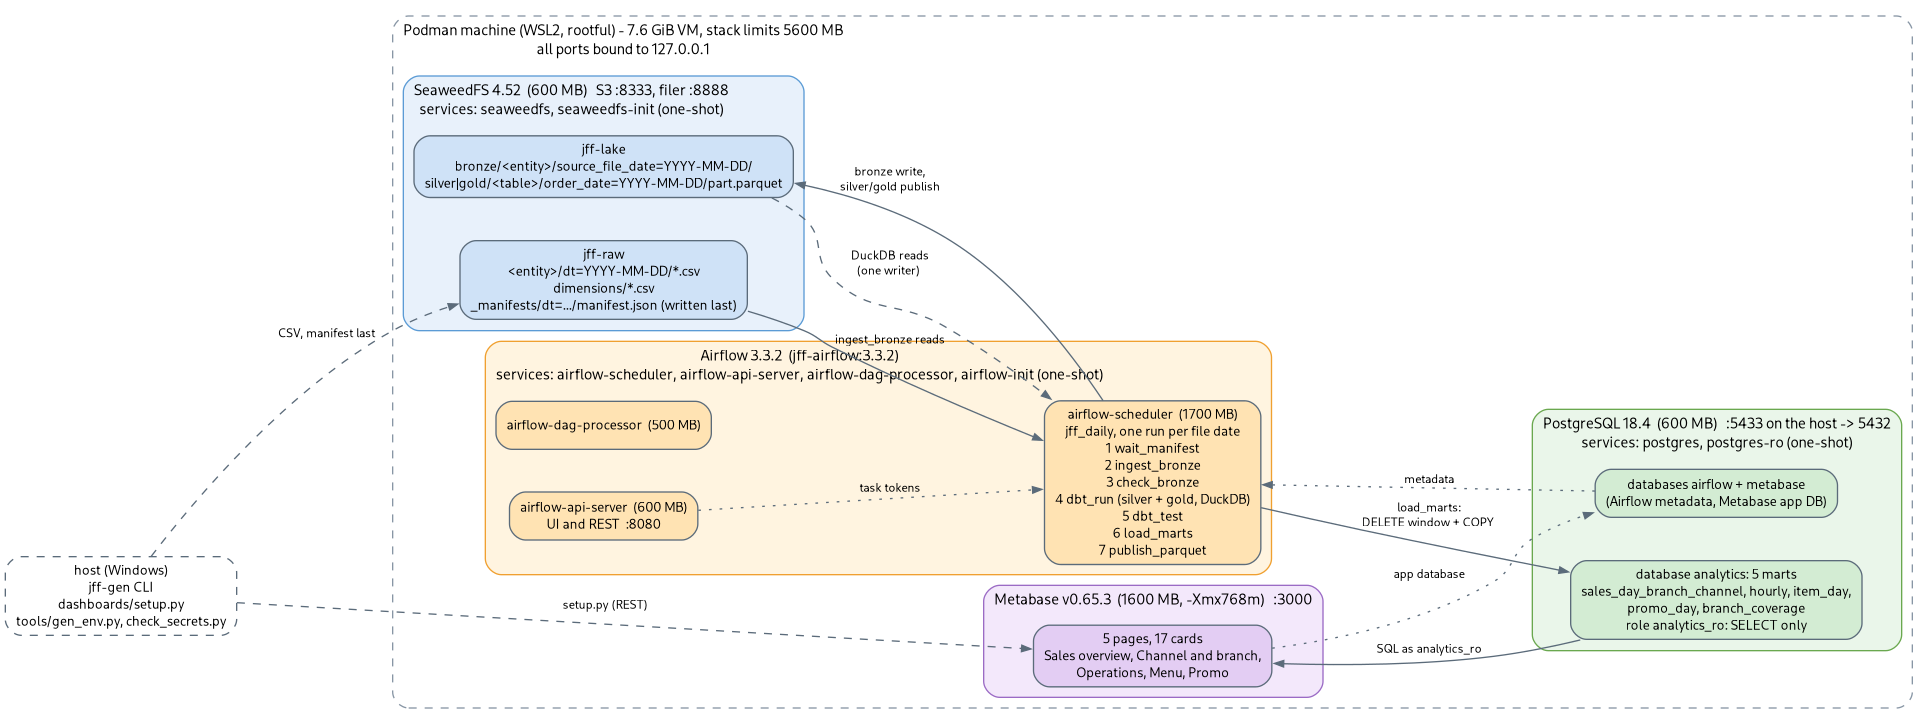
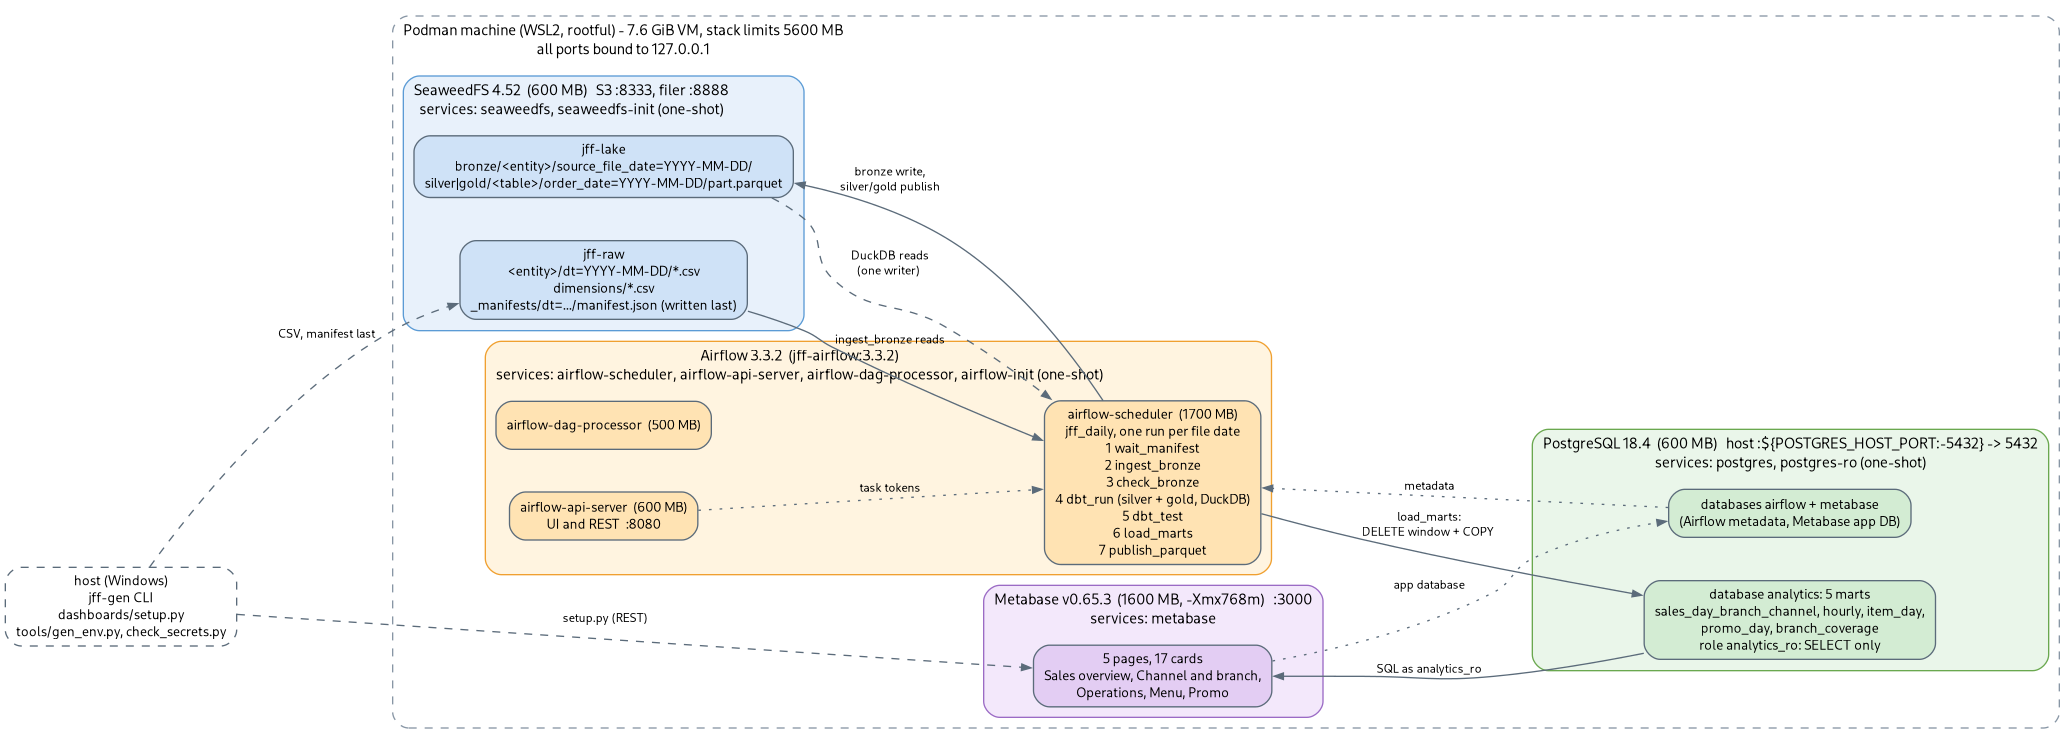
fix(docs): use the measured orphan count and tighten the citations
The 6 refund changes came from the task text's 0.02-scale estimate; at scale 0.1 the report counts 163 rows against 166 orphan rows. The clean-room sentence no longer claims a single pass, the generator test count cites T01, the 27,410 mart rows cite T07 section 8, two unhedged scale numbers are labelled, and the diagram takes the host port from .env with Metabase named like the other services.

diff --git a/docs/conclusion.md b/docs/conclusion.md
@@ -25,7 +25,7 @@ It runs as six long-running containers plus three one-shot helpers on one Podman
 | The injected defects are detected | Seven row-level defects match the manifests one to one; nine missing branch-days equal the nine `dropped_branch_ids` | T03 section 3, T06 section 2 |
 | The stack fits its budget while loaded | postgres 165 MB, seaweedfs 326.8 MB, metabase 1.357 GB, api-server 331.8 MB, scheduler 1.077 GB, dag-processor 205.8 MB | T06 section 6 |
 | One day costs about a minute | 42.3 s for the seven tasks, peak `anon` 661.4 MB | T06 section 5 |
-| Tests and checks are green | dbt 49 tests, `pytest` 23, generator 41, ruff/mypy clean, CI green on `task/T07-hardening` and `main` | T06 section 7, T07 section 5 |
+| Tests and checks are green | dbt 49 tests, `pytest` 23, generator 41, ruff/mypy clean, CI green on `task/T07-hardening` and `main` | T06 section 7, T01, T07 section 5 |
 | Our own dependencies have no known advisories | pip-audit: 0 findings in the pipeline, generator and dbt sets | T07 section 3 |
 | The base image is the remaining risk | 108 advisories in the Airflow image (4 CRITICAL, 48 HIGH) and Trivy 342 HIGH / 23 CRITICAL for it; accepted for a local demo with a review after 29 Nov 2026 | T07 section 4, `docs/security.md` |
 
@@ -42,8 +42,9 @@ Window counts (days, rows, objects) are in `docs/pipeline-design.md` section 14 
   useful and arithmetically consistent, nothing more (`docs/data-dictionary.md`).
 - **The newest day is provisional.** Its late orders and refunds arrive in the next file and rewrite its
   partition on the next run (T04).
-- **Orphan refunds before the window.** Six refund changes refer to orders older than the loaded window
-  and do not attach to an order (T04b).
+- **Orphan refunds before the window.** 163 refund rows reference orders dated 2026-09-23 .. 2026-09-30,
+  before the dataset starts, and do not attach to an order; three more reference dropped branch-days, so
+  the orphan count is 166 (docs/verification/T04-marts.md).
 - **No real-time view.** The schedule is daily and the window is closed at the run date; there is no
   streaming path and none is planned for this project (`docs/pipeline-design.md` section 11).
 - **No backups and no TLS**, and the Podman machine is rootful: the demo assumes one trusted local machine
@@ -51,20 +52,20 @@ Window counts (days, rows, objects) are in `docs/pipeline-design.md` section 14 
 
 ## What to change at 100 times the volume
 
-The current shape is right up to about a million orders; the following are the parts that would break
-first, in the order they would break.
+As a judgment rather than a measurement, the current shape is probably right up to about a million
+orders; the following are the parts that would break first, in the order they would break.
 
 1. **The compute store.** A single DuckDB file with one writer stops being the answer. Move silver and
    gold to a warehouse with concurrent writers and partition-level metadata (Iceberg or a managed
    warehouse), keeping dbt as the transformation layer; the models and tests carry over unchanged.
 2. **The publish step.** One object per table per day becomes too many small files. Publish per month, or
    let the table format compact; the current per-date writer is `pipelines/publish_parquet.py`.
-3. **The marts.** `DELETE` + `COPY` per window is fine at 27,410 rows in `mart_sales_day_branch_channel`;
+3. **The marts.** `DELETE` + `COPY` per window is fine at 27,410 rows in `mart_sales_day_branch_channel` (T07 section 8);
    at 100x it wants partitioning by date and `COPY` into staging tables, or a warehouse that reads the
    gold tables directly.
 4. **The orchestrator.** LocalExecutor with one worker becomes Celery or Kubernetes; the DAG stays as it
    is, the pool and concurrency settings change.
-5. **The window.** A fixed 10 days is cheap at 12k orders per day; at 100x, recomputing 10 partitions per
+5. **The window.** A fixed 10 days is cheap at about 12k orders per day (the window in section 14 averages to that); at 100x, recomputing 10 partitions per
    run needs either a wider machine or dynamic affected-date detection (the alternative rejected in D2).
 6. **Retention.** Bronze keeps everything today. At 100x it needs a lifecycle policy, and the lake's
    orphan-partition behaviour (`docs/lake-layout.md`) needs an explicit cleanup job.

diff --git a/README.md b/README.md
@@ -93,8 +93,10 @@ python dashboards/setup.py              # creates the connection, 17 cards and 5
 ```
 
 Then open `http://localhost:3000` (Metabase, the admin from `.env`), `http://localhost:8080` (Airflow) and
-`http://127.0.0.1:8888/buckets/` (the SeaweedFS file browser). This exact sequence was run from an empty
-clone on 2026-11-23; the report is `docs/verification/T07-hardening.md` section 1.
+`http://127.0.0.1:8888/buckets/` (the SeaweedFS file browser). Every step ran in the T07 clean-room on
+2026-11-23; the order below is the corrected one, because that run needed two attempts — the dimensions
+were missing at first, and the DAG boundary had to be pointed at the days that exist. Report:
+`docs/verification/T07-hardening.md` section 1.
 
 ### Run one new day
 
@@ -227,8 +229,10 @@ Every limitation below has a report behind it.
   partition is rewritten on the next run (T04).
 - **`fact_branch_day` starts at the first file date.** 2026-09-30 has orders (late arrivals of the 10-01
   file) but no file of its own, so it is not a coverage day (T06 section 2).
-- **Orphan refunds before the window.** 6 refund changes refer to orders older than the loaded window and
-  therefore do not attach to an order (T04b).
+- **Orphan refunds before the window.** 163 refund rows reference orders dated 2026-09-23 .. 2026-09-30,
+  before the dataset starts, so they do not attach to an order; the generator writes refunds for orders it
+  never produced. With three rows that reference dropped branch-days the orphan count is 166
+  (`docs/verification/T04-marts.md`).
 - **A lake partition can outlive its date.** A partition is deleted only when its own date is published
   again; a date that disappears from DuckDB and is never republished keeps its object (T05 section 5).
 - **The dashboard date filter is a fixed date** in all 17 cards; a different dataset means editing them or

diff --git a/docs/verification/T08-docs.md b/docs/verification/T08-docs.md
@@ -167,6 +167,22 @@ all present in docs/slides/architecture.dot: True
 
 No application code changed in this task except the two `timeout-minutes` lines the task asked for.
 
+## Review follow-up (2026-11-24)
+
+The reviewer found one wrong number and two wrong citations; all six findings are closed here.
+
+| Finding | Fix |
+|---|---|
+| **Blocker:** "6 refund changes" was the task text's estimate at scale 0.02. At scale 0.1 the measured value is 163 rows referencing orders before the window, 166 orphan rows with the three dropped branch-days | `README.md` and `docs/conclusion.md` now say 163 and 166 and cite `docs/verification/T04-marts.md` |
+| README claimed the exact sequence ran from an empty clone in one pass | it now says every step ran in the T07 clean-room and the order is the corrected one, because that run needed two attempts |
+| "generator 41" cited T06 section 7 and T07 section 5, neither of which counts the generator tests | the source is now T06 section 7, T01 (41 passed) and T07 section 5 |
+| 27,410 rows in `mart_sales_day_branch_channel` had no citation where it was used | now cites T07 section 8 |
+| "about a million orders" and "12k orders per day" read as measurements | the first is labelled a judgment, the second a derivation from section 14 |
+| The diagram showed a machine-specific host port and Metabase only inside a cluster label | the label is now `${POSTGRES_HOST_PORT:-5432}` and Metabase has its own `services: metabase` line |
+
+The diagram was re-rendered after the label change and still carries all nine compose services and all
+seven DAG tasks.
+
 ## Numbers and their sources
 
 Every number in the README and in the conclusion points at one of: `docs/pipeline-design.md` section 14
